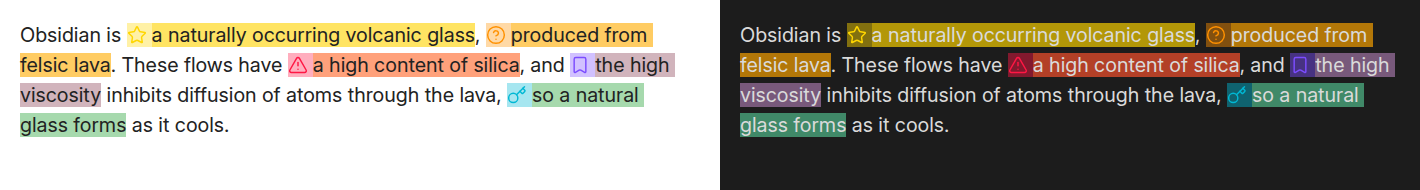
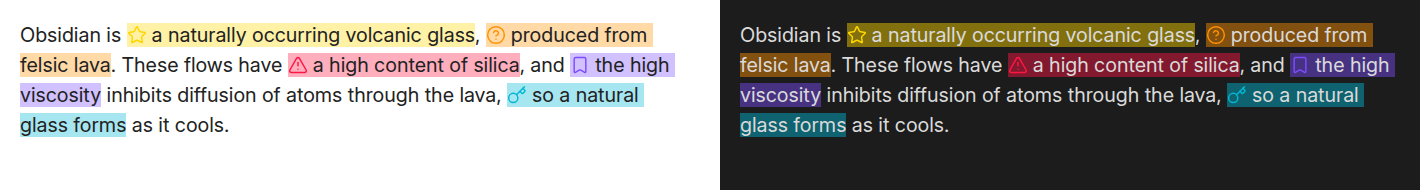
Stop Obsidian's highlight yellow bleeding through callout highlights in the editor

Changed region(s): [[0.093, 0.1053, 0.6197, 0.7368], [0.5887, 0.1053, 0.9915, 0.5789], [0.0, 0.2632, 0.093, 0.7368]]

diff --git a/test/specs/highlights.e2e.ts b/test/specs/highlights.e2e.ts
@@ -123,6 +123,39 @@ describe('Highlight rendering in live preview', function () {
     expect(spans.find((s) => s.text === 'second')?.char).toBe('!');
   });
 
+  // CodeMirror renders one highlight as two of our spans: one around the
+  // marker widget on its own, and one around the text nested inside the span
+  // Obsidian paints its own yellow on. If that yellow is not cancelled, the
+  // text is blended over it (cyan came out green) while the marker is not, so
+  // an icon sat on a different colour from its text -- and nothing else in
+  // this file notices, because classes and attributes are all still right.
+  it('paints the callout colour and nothing else', async function () {
+    const paint = await browser.executeObsidian(({ app }) => {
+      return Array.from(
+        app.workspace.containerEl.querySelectorAll<HTMLElement>(
+          '.markdown-source-view .lc-highlight-callout[data-callout="@"]'
+        )
+      ).map((el) => {
+        const above: string[] = [];
+        for (
+          let n = el.parentElement;
+          n && !n.classList.contains('cm-line');
+          n = n.parentElement
+        ) {
+          above.push(getComputedStyle(n).backgroundColor);
+        }
+        return { own: getComputedStyle(el).backgroundColor, above };
+      });
+    });
+
+    // Marker span and text span, at least.
+    expect(paint.length).toBeGreaterThanOrEqual(2);
+    for (const { own, above } of paint) {
+      expect(own.startsWith('rgba(0, 184, 212, ')).toBe(true);
+      expect(above.every((c) => c === 'rgba(0, 0, 0, 0)')).toBe(true);
+    }
+  });
+
   it('leaves a plain highlight alone', async function () {
     const spans = await editorHighlights();
 

diff --git a/styles.css b/styles.css
@@ -241,9 +241,11 @@ settings:
 
 /* CodeMirror nests our mark and Obsidian's own highlight span inside one
    another, in an order we do not control. Paint the colour once, on ours,
-   rather than twice through a translucent background. */
-.lc-highlight-callout .cm-highlight,
-.cm-highlight:has(> .lc-highlight-callout) {
+   rather than twice through a translucent background. Obsidian's rule is
+   `.cm-s-obsidian span.cm-highlight`, so these have to be at least that
+   specific or its yellow stays underneath every highlight. */
+.cm-s-obsidian .lc-highlight-callout span.cm-highlight,
+.cm-s-obsidian span.cm-highlight:has(.lc-highlight-callout) {
   background-color: transparent;
 }
 
